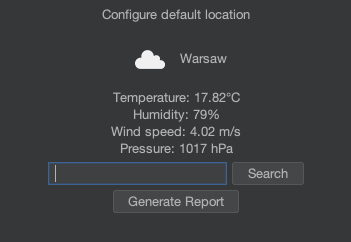
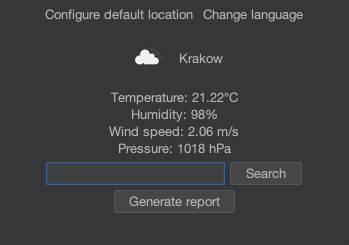
Update README.md

diff --git a/README.md b/README.md
@@ -6,6 +6,8 @@ An application that provides up-to-date weather information based on the user's 
 the [OpenWeatherMap API](https://openweathermap.org/current) to fetch real-time weather data. Application also allows
 user to generate weather reports which are saved as [PDFs](demo-report.pdf).
 
+Pogodynka is multilingual, for now it supports only English and Polish.
+
 ## Building
 
 Pogodynka uses Maven to handle dependencies and building.
@@ -15,7 +17,7 @@ Pogodynka uses Maven to handle dependencies and building.
 - [Java Development Kit 21](https://www.oracle.com/java/technologies/downloads/#jdk21) or higher
 - [OpenWeather's](https://openweathermap.org) API key
 
-#### Compile
+### Compile
 
 Windows:
 
@@ -37,5 +39,5 @@ export WEATHER_API_KEY=YOUR_API_KEY
 > Running application may require to set up the API key.
 
 ```shell
-java -jar pogodynka-1.0.0-jar-with-dependencies.jar
+java -jar pogodynka-1.0.1-jar-with-dependencies.jar
 ```
